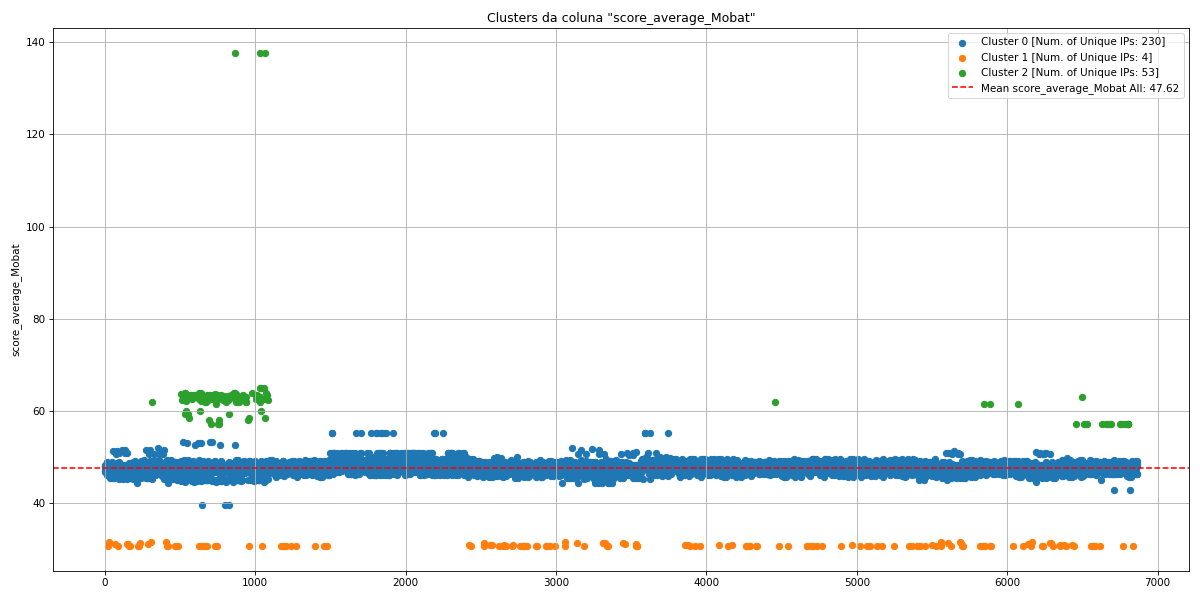
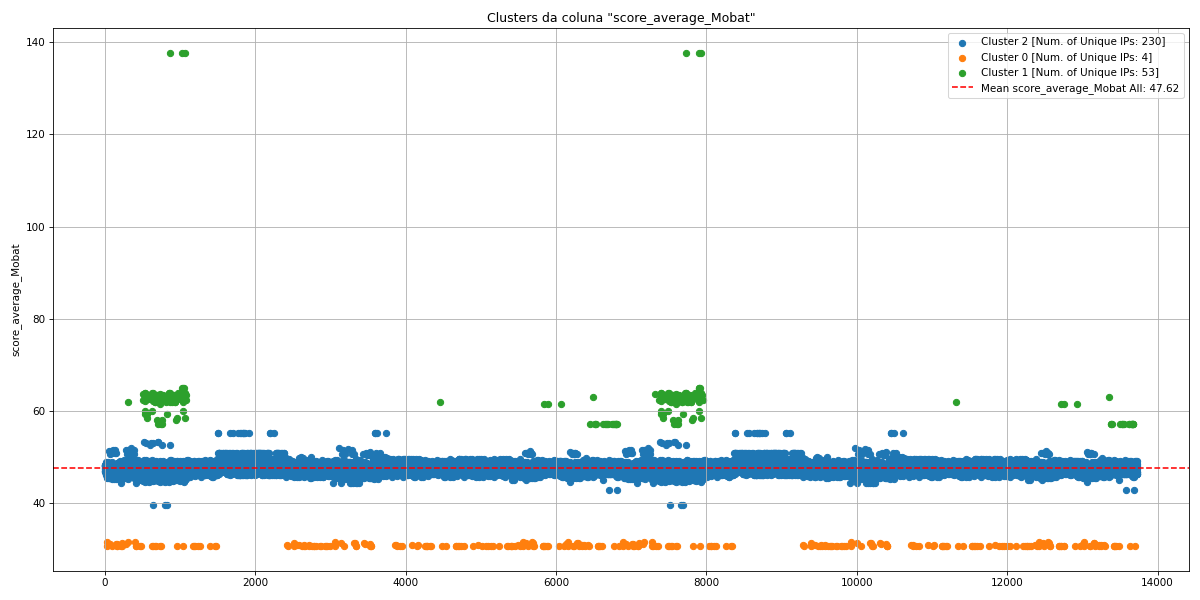
corrections

diff --git a/readme.py b/readme.py
@@ -1,113 +1,134 @@
-import os
-import requests
 import base64
+import os
 import re
+
+import requests
 
 BASE_URL = "http://127.0.0.1:8000"
 IMAGES_DIR = "images"
+
 os.makedirs(IMAGES_DIR, exist_ok=True)
 
 session = requests.Session()
 
+
 def get_csrf_token():
     resp = session.get(f"{BASE_URL}/visualizar_funcionalidades/?table_choice=1")
-    csrf_token = session.cookies.get('csrftoken')
+    csrf_token = session.cookies.get("csrftoken")
     if csrf_token:
         return csrf_token
+
     match = re.search(r'name="csrfmiddlewaretoken" value="([^"]+)"', resp.text)
     if match:
         return match.group(1)
     return None
 
+
 def select_semester(table_choice="1"):
-    resp = session.get(f"{BASE_URL}/visualizar_funcionalidades/", params={"table_choice": table_choice})
+    resp = session.get(
+        f"{BASE_URL}/visualizar_funcionalidades/", params={"table_choice": table_choice}
+    )
     return resp.status_code == 200
+
 
 def get_first_ip():
     select_semester("1")
     resp = session.get(f"{BASE_URL}/graficos_comportamento/")
     if resp.status_code != 200:
         return None
-    html = resp.text
-    match = re.search(r'<option value="([\d\.]+)"', html)
+
+    match = re.search(r'<option value="([\d\.]+)"', resp.text)
     if match:
         return match.group(1)
     return None
 
+
 def save_binary_response(response, filename):
-    with open(os.path.join(IMAGES_DIR, filename), 'wb') as f:
-        f.write(response.content)
+    with open(os.path.join(IMAGES_DIR, filename), "wb") as file_obj:
+        file_obj.write(response.content)
+
 
 def save_image_from_datauri(data_uri, filename):
-    if data_uri.startswith('data:image/png;base64,'):
-        data_uri = data_uri.split(',')[1]
-    with open(os.path.join(IMAGES_DIR, filename), 'wb') as f:
-        f.write(base64.b64decode(data_uri))
+    if data_uri.startswith("data:image/png;base64,"):
+        data_uri = data_uri.split(",")[1]
+    with open(os.path.join(IMAGES_DIR, filename), "wb") as file_obj:
+        file_obj.write(base64.b64decode(data_uri))
+
 
 def post_with_csrf(url, data=None):
     csrf_token = get_csrf_token()
-    headers = {'X-CSRFToken': csrf_token} if csrf_token else {}
+    headers = {"X-CSRFToken": csrf_token} if csrf_token else {}
     return session.post(url, data=data, headers=headers)
+
 
 def get_grafico_comportamento(ip):
     data = {
-        'ip_address': ip,
-        'chart_type': 'score_average',
-        'action': 'Baixar Gráfico'
+        "ip_address": ip,
+        "chart_type": "score_average",
+        "action": "Baixar Gráfico",
     }
     resp = post_with_csrf(f"{BASE_URL}/graficos_comportamento/", data=data)
-    if resp.status_code == 200 and 'image/png' in resp.headers.get('Content-Type', ''):
-        save_binary_response(resp, 'comportamento_score_average.png')
+    if resp.status_code == 200 and "image/png" in resp.headers.get("Content-Type", ""):
+        save_binary_response(resp, "comportamento_score_average.png")
         return True
     print(f"Erro comportamento: {resp.status_code} - {resp.text[:200]}")
     return False
 
+
 def get_grafico_clusters():
     data = {
-        'feature': 'score_average_Mobat',
-        'clusters': '3',
-        'action': 'Baixar Gráfico'
+        "feature": "score_average_Mobat",
+        "clusters": "3",
+        "action": "Baixar Gráfico",
     }
     resp = post_with_csrf(f"{BASE_URL}/clusters/", data=data)
-    if resp.status_code == 200 and 'image/png' in resp.headers.get('Content-Type', ''):
-        save_binary_response(resp, 'clusters.png')
+    if resp.status_code == 200 and "image/png" in resp.headers.get("Content-Type", ""):
+        save_binary_response(resp, "clusters.png")
         return True
     print(f"Erro clusters: {resp.status_code} - {resp.text[:200]}")
     return False
 
+
 def get_grafico_score_average_mobat():
-    resp = post_with_csrf(f"{BASE_URL}/score_average_mobat/", data={'num_ips': '5'})
+    resp = post_with_csrf(f"{BASE_URL}/score_average_mobat/", data={"num_ips": "5"})
     if resp.status_code != 200:
         print(f"Erro ao post score_average: {resp.status_code}")
         return False
+
     resp = session.get(f"{BASE_URL}/score_average_mobat/?download=true")
-    if resp.status_code == 200 and 'image/png' in resp.headers.get('Content-Type', ''):
-        save_binary_response(resp, 'score_average_top_ips.png')
+    if resp.status_code == 200 and "image/png" in resp.headers.get("Content-Type", ""):
+        save_binary_response(resp, "score_average_top_ips.png")
         return True
     print(f"Erro download score_average: {resp.status_code}")
     return False
 
+
 def get_grafico_reputacao_pais():
-    resp = post_with_csrf(f"{BASE_URL}/reputacao_pais/", data={'action': 'Visualizar Todos os Países'})
+    resp = post_with_csrf(
+        f"{BASE_URL}/reputacao_pais/", data={"action": "Visualizar Todos os Países"}
+    )
     if resp.status_code != 200:
         print(f"Erro ao post reputacao: {resp.status_code}")
         return False
+
     resp = session.get(f"{BASE_URL}/reputacao_pais/?download=true")
-    if resp.status_code == 200 and 'image/png' in resp.headers.get('Content-Type', ''):
-        save_binary_response(resp, 'reputacao_pais.png')
+    if resp.status_code == 200 and "image/png" in resp.headers.get("Content-Type", ""):
+        save_binary_response(resp, "reputacao_pais.png")
         return True
     print(f"Erro download reputacao: {resp.status_code}")
     return False
 
+
 def get_heatmap():
-    resp = post_with_csrf(f"{BASE_URL}/heatmap_ips/", data={'action': 'Gerar HeatMap'})
+    resp = post_with_csrf(f"{BASE_URL}/heatmap_ips/", data={"action": "Gerar HeatMap"})
     if resp.status_code == 200:
         match = re.search(r'<img[^>]+src="(data:image/png;base64,[^"]+)"', resp.text)
         if match:
-            save_image_from_datauri(match.group(1), 'heatmap.png')
+            save_image_from_datauri(match.group(1), "heatmap.png")
             return True
     print(f"Erro heatmap: {resp.status_code}")
     return False
+
 
 def generate_readme():
     readme = """# Mobat Project
@@ -148,39 +169,41 @@ Acesse http://localhost:8000
 
 ## Exemplos de Gráficos Gerados
 
-- **Comportamento do Score Médio**: https://images/comportamento_score_average.png
-- **Clusters**: https://images/clusters.png
-- **Top IPs com maior variação**: https://images/score_average_top_ips.png
-- **Reputação por País**: https://images/reputacao_pais.png
-- **Heatmap de ocorrências**: https://images/heatmap.png
+### Comportamento do Score Médio
+
+![Comportamento do Score Médio](images/comportamento_score_average.png)
+
+### Clusters
+
+![Clusters](images/clusters.png)
+
+### Top IPs com maior variação
+
+![Top IPs com maior variação](images/score_average_top_ips.png)
+
+### Reputação por País
+
+![Reputação por País](images/reputacao_pais.png)
+
+### Heatmap de ocorrências
+
+![Heatmap de ocorrências](images/heatmap.png)
 
 ## Como usar
 
-1. Na página inicial, selecione o semestre desejado
-2. Explore as abas:
-   - **Gráficos de Comportamento**: escolha um IP e visualize evolução temporal dos scores
-   - **Clusters**: selecione uma feature e número de clusters
-   - **Score Average Mobat**: visualize os IPs mais frequentes
-   - **Reputação por País**: compare a média entre países
-   - **Heatmap**: gere mapa mundial com intensidade
-   - **Seleção de Características**: compare técnicas de redução
-   - **Importância de Features**: treine modelos
-   - **Tabela de Acurácia**: performance dos modelos
-   - **Download de Tabela**: exporte os dados brutos
+- Na página inicial, selecione o semestre desejado.
+- Explore as abas de Gráficos de Comportamento, Clusters, Score Average Mobat, Reputação por País, Heatmap, Seleção de Características, Importância de Features, Tabela de Acurácia e Download de Tabela.
 
 ## Estrutura do Projeto
 
-- `mobat_app/views/` – lógica por funcionalidade
-- `mobat_app/utils/` – helpers para plotagem e ML
-- `mobat_app/Seasons/` – bancos SQLite com dados semestrais
-- `mobat_app/shapefiles/` – arquivos GeoJSON para mapas
-
-## Contribuição
-
-Relate issues ou sugira melhorias através do repositório.
+- `mobat_app/views/` - lógica por funcionalidade
+- `mobat_app/utils/` - helpers para plotagem e ML
+- `mobat_app/Seasons/` - bancos SQLite com dados semestrais
+- `mobat_app/shapefiles/` - arquivos para mapas
 """
-    with open("README.md", "w", encoding="utf-8") as f:
-        f.write(readme)
+
+    with open("README.md", "w", encoding="utf-8") as file_obj:
+        file_obj.write(readme)
 
     print("README.md gerado com sucesso!")
 
@@ -189,7 +212,9 @@ def main():
     print("Selecionando semestre e obtendo primeiro IP disponível...")
     ip = get_first_ip()
     if not ip:
-        print("Não foi possível obter um IP. Verifique se o servidor está rodando em http://127.0.0.1:8000 e se existe tabela com dados.")
+        print(
+            "Não foi possível obter um IP. Verifique se o servidor está rodando em http://127.0.0.1:8000 e se existe tabela com dados."
+        )
         return
 
     print(f"IP selecionado: {ip}")

diff --git a/README.md b/README.md
@@ -36,33 +36,34 @@ Acesse http://localhost:8000
 
 ## Exemplos de Gráficos Gerados
 
-- **Comportamento do Score Médio**: https://images/comportamento_score_average.png
-- **Clusters**: https://images/clusters.png
-- **Top IPs com maior variação**: https://images/score_average_top_ips.png
-- **Reputação por País**: https://images/reputacao_pais.png
-- **Heatmap de ocorrências**: https://images/heatmap.png
+### Comportamento do Score Médio
+
+![Comportamento do Score Médio](images/comportamento_score_average.png)
+
+### Clusters
+
+![Clusters](images/clusters.png)
+
+### Top IPs com maior variação
+
+![Top IPs com maior variação](images/score_average_top_ips.png)
+
+### Reputação por País
+
+![Reputação por País](images/reputacao_pais.png)
+
+### Heatmap de ocorrências
+
+![Heatmap de ocorrências](images/heatmap.png)
 
 ## Como usar
 
-1. Na página inicial, selecione o semestre desejado
-2. Explore as abas:
-   - **Gráficos de Comportamento**: escolha um IP e visualize evolução temporal dos scores
-   - **Clusters**: selecione uma feature e número de clusters
-   - **Score Average Mobat**: visualize os IPs mais frequentes
-   - **Reputação por País**: compare a média entre países
-   - **Heatmap**: gere mapa mundial com intensidade
-   - **Seleção de Características**: compare técnicas de redução
-   - **Importância de Features**: treine modelos
-   - **Tabela de Acurácia**: performance dos modelos
-   - **Download de Tabela**: exporte os dados brutos
+- Na página inicial, selecione o semestre desejado.
+- Explore as abas de Gráficos de Comportamento, Clusters, Score Average Mobat, Reputação por País, Heatmap, Seleção de Características, Importância de Features, Tabela de Acurácia e Download de Tabela.
 
 ## Estrutura do Projeto
 
-- `mobat_app/views/` – lógica por funcionalidade
-- `mobat_app/utils/` – helpers para plotagem e ML
-- `mobat_app/Seasons/` – bancos SQLite com dados semestrais
-- `mobat_app/shapefiles/` – arquivos GeoJSON para mapas
-
-## Contribuição
-
-Relate issues ou sugira melhorias através do repositório.
+- `mobat_app/views/` - lógica por funcionalidade
+- `mobat_app/utils/` - helpers para plotagem e ML
+- `mobat_app/Seasons/` - bancos SQLite com dados semestrais
+- `mobat_app/shapefiles/` - arquivos para mapas